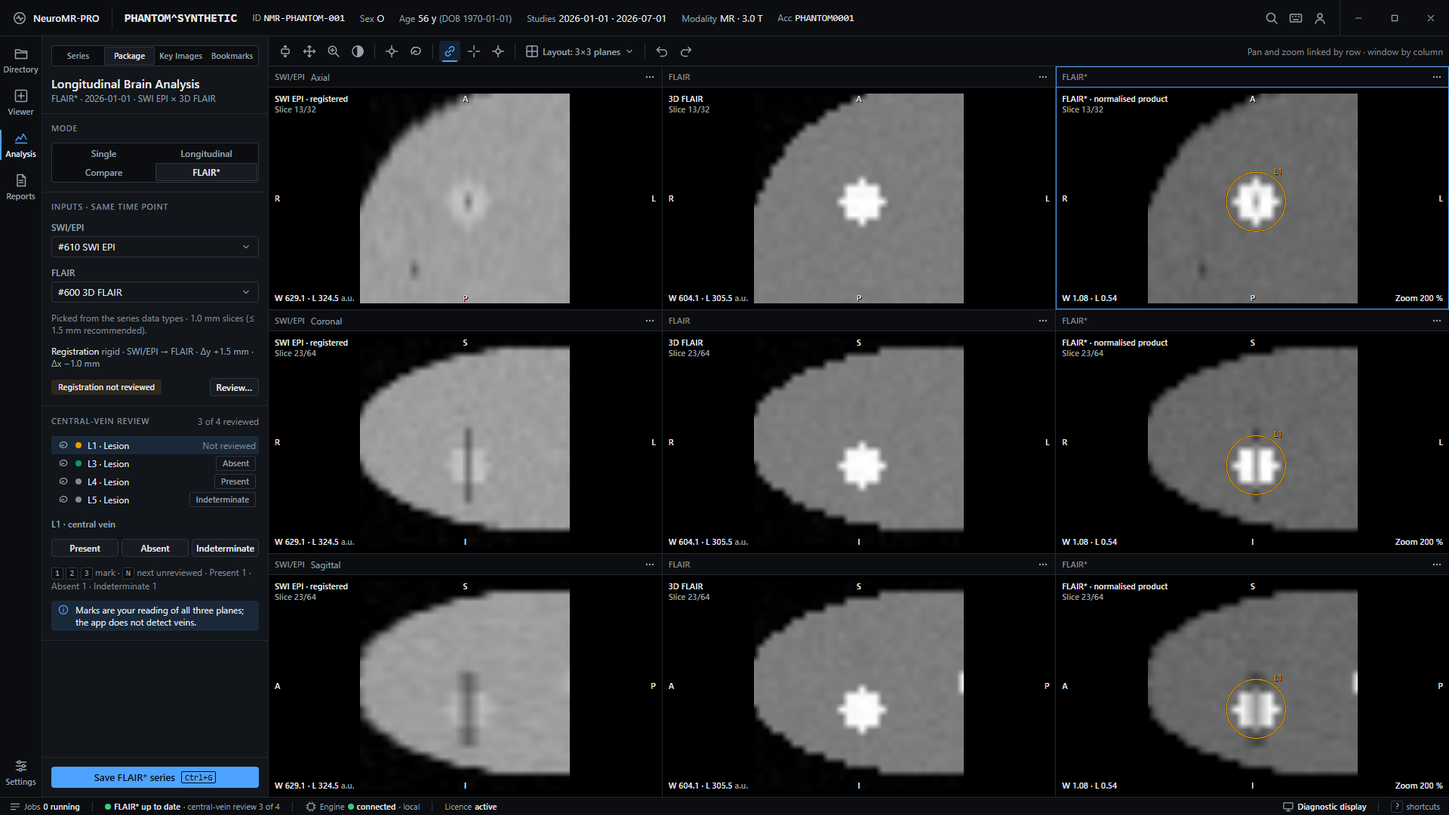
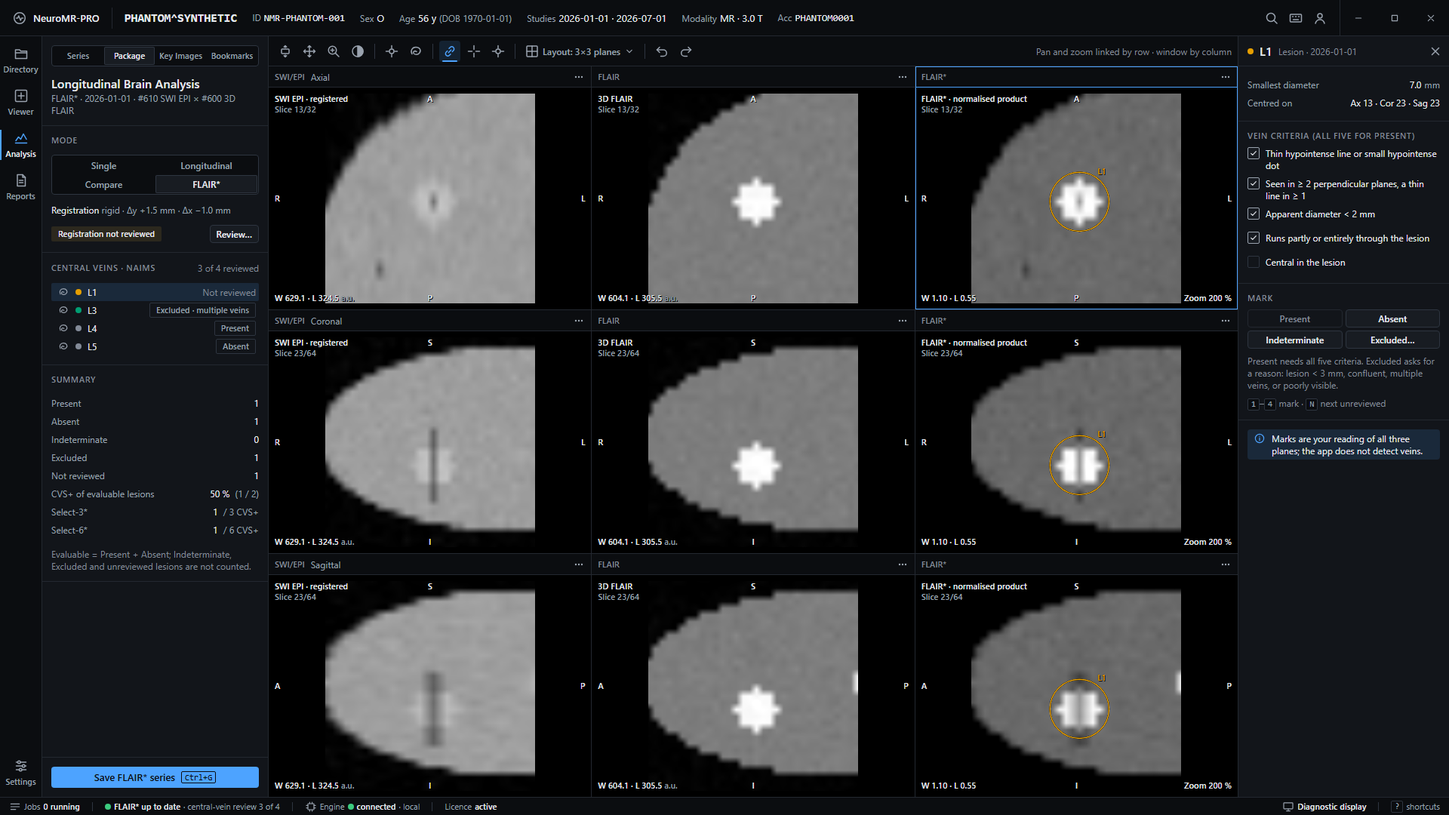
feat(design): NAIMS central-vein review with Excluded mark and CVS summary
- LBA-026 revised to the NAIMS consensus criteria: five vein criteria as a
  checklist (Present only when all are ticked), Absent, Indeterminate, and a
  separate Excluded mark with a required reason (lesion < 3 mm, confluent,
  multiple distinct veins, poorly visible). The app never marks veins.
- LBA-027: summary with counts per mark, CVS+ % of evaluable lesions
  (Present + Absent) and Select-3*/Select-6* counts; no diagnosis stated.
- ALGORITHMS §9 cites Sati et al. 2016 and Daboul et al. 2024.
- 13-flair-star: summary in the task panel, checklist and marks in the
  inspector, L3 shown Excluded (multiple veins); critique, brief and
  traceability updated.

diff --git a/design/screens/13-flair-star.html b/design/screens/13-flair-star.html
@@ -70,11 +70,12 @@
 </svg>
 <!-- /gen:sprite -->
 
-<!-- Longitudinal Brain Analysis, FLAIR* mode (LBA-025) with the central-vein review (LBA-026).
-     Built by design/tools/compose/flair_star.py from 13-longitudinal. SWI/EPI (swi_epi phantom) is registered to
-     the baseline FLAIR (in-plane rigid search, a design preview), both normalised by the 99th percentile in the
-     brain, product shown in three planes around L1 at zoom 200 %. -->
-<div class="app app--no-inspector">
+<!-- Longitudinal Brain Analysis, FLAIR* mode (LBA-025) with the NAIMS central-vein review (LBA-026) and summary
+     (LBA-027). Built by design/tools/compose/flair_star.py from 13-longitudinal. SWI/EPI (swi_epi phantom) is registered
+     to the baseline FLAIR (in-plane rigid search, a design preview), both normalised by the 99th percentile in the
+     brain, product shown in three planes around L1 at zoom 200 %. Marks shown match the phantom truth: L4 central
+     vein, L3 two distinct veins (excluded), L5 no vein; L1 (central vein) is being reviewed. -->
+<div class="app">
   <!-- gen:topbar-2 -->
 <header class="topbar" data-od-id="topbar">
     <div class="brand"><svg class="ic brand__mark"><use href="#i-brand"/></svg>NeuroMR-PRO</div>
@@ -120,7 +121,7 @@
     </div>
     <div class="panel__head">
       <div class="panel__head-row"><h1 class="panel__title">Longitudinal Brain Analysis</h1></div>
-      <p class="dense t2">FLAIR* · 2026-01-01 · SWI EPI × 3D FLAIR</p>
+      <p class="dense t2">FLAIR* · 2026-01-01 · #610 SWI EPI × #600 3D FLAIR</p>
     </div>
     <div class="panel__body">
       <section class="psec">
@@ -133,31 +134,31 @@
           <button class="seg__item is-selected" role="radio" aria-checked="true">FLAIR*</button>
         </div>
 <!-- /modes -->
-      </section>
-      <section class="psec" data-od-id="fstar-inputs">
-        <span class="eyebrow">Inputs · same time point</span>
-        <label class="field"><span class="field__label">SWI/EPI</span><div class="select"><span class="input__value">#610 SWI EPI</span><svg class="ic"><use href="#i-chev-down"/></svg></div></label>
-        <label class="field"><span class="field__label">FLAIR</span><div class="select"><span class="input__value">#600 3D FLAIR</span><svg class="ic"><use href="#i-chev-down"/></svg></div></label>
-        <span class="field__hint">Picked from the series data types · 1.0 mm slices (≤ 1.5 mm recommended).</span>
-        <div class="psec__row"><span class="dense">Registration <span class="t2">rigid · SWI/EPI → FLAIR · Δy +1.5 mm · Δx −1.0 mm</span></span></div>
+        <span class="dense">Registration <span class="t2">rigid · Δy +1.5 mm · Δx −1.0 mm</span></span>
         <div class="psec__row"><span class="chip chip--warning">Registration not reviewed</span><span class="spacer"></span><button class="btn btn--secondary btn--dense">Review…</button></div>
       </section>
       <section class="psec" data-od-id="cvs-review">
-        <div class="psec__row"><span class="eyebrow">Central-vein review</span><span class="spacer"></span><span class="dense t3">3 of 4 reviewed</span></div>
+        <div class="psec__row"><span class="eyebrow">Central veins · NAIMS</span><span class="spacer"></span><span class="dense t3">3 of 4 reviewed</span></div>
         <div class="tree" role="listbox" aria-label="Findings at 2026-01-01">
-          <div class="tree__row is-selected" role="option" aria-selected="true"><svg class="ic"><use href="#i-freehand"/></svg><span class="tree__dot" style="--c: var(--nm-roi-1)"></span><span>L1 · Lesion</span><span></span><span class="dense t3">Not reviewed</span></div>
-          <div class="tree__row" role="option"><svg class="ic"><use href="#i-freehand"/></svg><span class="tree__dot" style="--c: var(--nm-roi-3)"></span><span>L3 · Lesion</span><span></span><span class="chip">Absent</span></div>
-          <div class="tree__row" role="option"><svg class="ic"><use href="#i-freehand"/></svg><span class="tree__dot" style="--c: var(--nm-color-text-tertiary)"></span><span>L4 · Lesion</span><span></span><span class="chip">Present</span></div>
-          <div class="tree__row" role="option"><svg class="ic"><use href="#i-freehand"/></svg><span class="tree__dot" style="--c: var(--nm-color-text-tertiary)"></span><span>L5 · Lesion</span><span></span><span class="chip">Indeterminate</span></div>
+          <div class="tree__row is-selected" role="option" aria-selected="true"><svg class="ic"><use href="#i-freehand"/></svg><span class="tree__dot" style="--c: var(--nm-roi-1)"></span><span>L1</span><span></span><span class="dense t3">Not reviewed</span></div>
+          <div class="tree__row" role="option"><svg class="ic"><use href="#i-freehand"/></svg><span class="tree__dot" style="--c: var(--nm-roi-3)"></span><span>L3</span><span></span><span class="chip">Excluded · multiple veins</span></div>
+          <div class="tree__row" role="option"><svg class="ic"><use href="#i-freehand"/></svg><span class="tree__dot" style="--c: var(--nm-color-text-tertiary)"></span><span>L4</span><span></span><span class="chip">Present</span></div>
+          <div class="tree__row" role="option"><svg class="ic"><use href="#i-freehand"/></svg><span class="tree__dot" style="--c: var(--nm-color-text-tertiary)"></span><span>L5</span><span></span><span class="chip">Absent</span></div>
         </div>
-        <span class="field__label">L1 · central vein</span>
-        <div class="cvs" role="radiogroup" aria-label="Central vein for L1">
-          <button class="btn btn--secondary btn--dense" role="radio" aria-checked="false" title="Present (1)">Present</button>
-          <button class="btn btn--secondary btn--dense" role="radio" aria-checked="false" title="Absent (2)">Absent</button>
-          <button class="btn btn--secondary btn--dense" role="radio" aria-checked="false" title="Indeterminate (3)">Indeterminate</button>
-        </div>
-        <span class="field__hint"><span class="kbd">1</span> <span class="kbd">2</span> <span class="kbd">3</span> mark · <span class="kbd">N</span> next unreviewed · Present 1 · Absent 1 · Indeterminate 1</span>
-        <div class="notice notice--info" role="note" data-od-id="lba-026"><svg class="ic"><use href="#i-info"/></svg><span class="notice__text">Marks are your reading of all three planes; the app does not detect veins.</span></div>
+      </section>
+      <section class="psec" data-od-id="cvs-summary">
+        <span class="eyebrow">Summary</span>
+        <dl>
+          <div class="kv"><dt>Present</dt><dd>1</dd></div>
+          <div class="kv"><dt>Absent</dt><dd>1</dd></div>
+          <div class="kv"><dt>Indeterminate</dt><dd>0</dd></div>
+          <div class="kv"><dt>Excluded</dt><dd>1</dd></div>
+          <div class="kv"><dt>Not reviewed</dt><dd>1</dd></div>
+          <div class="kv"><dt>CVS+ of evaluable lesions</dt><dd>50 % <span class="u">(1 / 2)</span></dd></div>
+          <div class="kv"><dt>Select-3*</dt><dd>1 <span class="u">/ 3 CVS+</span></dd></div>
+          <div class="kv"><dt>Select-6*</dt><dd>1 <span class="u">/ 6 CVS+</span></dd></div>
+        </dl>
+        <span class="field__hint">Evaluable = Present + Absent; Indeterminate, Excluded and unreviewed lesions are not counted.</span>
       </section>
     </div>
     <div class="panel__foot">
@@ -219,7 +220,7 @@
           <span class="ov roi-label roi-label--1" style="left: 60%; top: 41%">L1</span>
         </div>
         <div class="ov ov--tl">FLAIR* · normalised product<br><span class="t2">Slice 13/32</span></div>
-        <div class="ov ov--bl">W 1.08 · L 0.54</div>
+        <div class="ov ov--bl">W 1.10 · L 0.55</div>
         <div class="ov ov--br">Zoom 200 %</div>
         <span class="ov orient orient--n">A</span><span class="ov orient orient--s">P</span><span class="ov orient orient--w">R</span><span class="ov orient orient--e">L</span>
       </div>
@@ -255,7 +256,7 @@
           <span class="ov roi-label roi-label--1" style="left: 60%; top: 50%">L1</span>
         </div>
         <div class="ov ov--tl">FLAIR* · normalised product<br><span class="t2">Slice 23/64</span></div>
-        <div class="ov ov--bl">W 1.08 · L 0.54</div>
+        <div class="ov ov--bl">W 1.10 · L 0.55</div>
         <div class="ov ov--br">Zoom 200 %</div>
         <span class="ov orient orient--n">S</span><span class="ov orient orient--s">I</span><span class="ov orient orient--w">R</span><span class="ov orient orient--e">L</span>
       </div>
@@ -291,7 +292,7 @@
           <span class="ov roi-label roi-label--1" style="left: 60%; top: 50%">L1</span>
         </div>
         <div class="ov ov--tl">FLAIR* · normalised product<br><span class="t2">Slice 23/64</span></div>
-        <div class="ov ov--bl">W 1.08 · L 0.54</div>
+        <div class="ov ov--bl">W 1.10 · L 0.55</div>
         <div class="ov ov--br">Zoom 200 %</div>
         <span class="ov orient orient--n">S</span><span class="ov orient orient--s">I</span><span class="ov orient orient--w">A</span><span class="ov orient orient--e">P</span>
       </div>
@@ -299,6 +300,39 @@
   </main>
 <!-- /main -->
 
+  <aside class="inspector" aria-label="Finding" data-od-id="inspector">
+    <div class="inspector__head"><span class="tree__dot" style="--c: var(--nm-roi-1)"></span><h2 class="panel__title">L1</h2><span class="dense t3">Lesion · 2026-01-01</span><span class="spacer"></span><button class="ibtn" aria-label="Close inspector (I)"><svg class="ic"><use href="#i-close"/></svg></button></div>
+    <div class="panel__body">
+      <section class="section">
+        <dl>
+          <div class="kv"><dt>Smallest diameter</dt><dd>7.0<span class="u">mm</span></dd></div>
+          <div class="kv"><dt>Centred on</dt><dd>Ax 13 · Cor 23 · Sag 23</dd></div>
+        </dl>
+      </section>
+      <section class="section" data-od-id="naims-vein">
+        <span class="eyebrow">Vein criteria (all five for Present)</span>
+          <label class="check check--wrap is-checked"><span class="check__box"><svg class="ic"><use href="#i-check"/></svg></span>Thin hypointense line or small hypointense dot</label>
+          <label class="check check--wrap is-checked"><span class="check__box"><svg class="ic"><use href="#i-check"/></svg></span>Seen in ≥ 2 perpendicular planes, a thin line in ≥ 1</label>
+          <label class="check check--wrap is-checked"><span class="check__box"><svg class="ic"><use href="#i-check"/></svg></span>Apparent diameter &lt; 2 mm</label>
+          <label class="check check--wrap is-checked"><span class="check__box"><svg class="ic"><use href="#i-check"/></svg></span>Runs partly or entirely through the lesion</label>
+          <label class="check check--wrap"><span class="check__box"><svg class="ic"><use href="#i-check"/></svg></span>Central in the lesion</label>
+      </section>
+      <section class="section" data-od-id="cvs-mark">
+        <span class="eyebrow">Mark</span>
+        <div class="cvs cvs--2" role="radiogroup" aria-label="Central-vein mark for L1">
+          <button class="btn btn--secondary btn--dense" role="radio" aria-checked="false" disabled title="Tick all five vein criteria first (1)">Present</button>
+          <button class="btn btn--secondary btn--dense" role="radio" aria-checked="false" title="Absent (2)">Absent</button>
+          <button class="btn btn--secondary btn--dense" role="radio" aria-checked="false" title="Indeterminate (3)">Indeterminate</button>
+          <button class="btn btn--secondary btn--dense" role="radio" aria-checked="false" title="Excluded, choose a reason (4)">Excluded…</button>
+        </div>
+        <span class="field__hint">Present needs all five criteria. Excluded asks for a reason: lesion &lt; 3 mm, confluent, multiple veins, or poorly visible.</span>
+        <span class="field__hint"><span class="kbd">1</span>–<span class="kbd">4</span> mark · <span class="kbd">N</span> next unreviewed</span>
+      </section>
+      <section class="section" style="border-bottom: 0">
+        <div class="notice notice--info" role="note" data-od-id="lba-026"><svg class="ic"><use href="#i-info"/></svg><span class="notice__text">Marks are your reading of all three planes; the app does not detect veins.</span></div>
+      </section>
+    </div>
+  </aside>
 
 
   <!-- gen:statusbar-fstar -->

diff --git a/design/screens/shell.css b/design/screens/shell.css
@@ -1250,3 +1250,6 @@ ul, ol { list-style: none; }
    -------------------------------------------------------------------------- */
 .vgrid--3x3 { grid-template-columns: repeat(3, minmax(0, 1fr)); grid-template-rows: repeat(3, minmax(0, 1fr)); }
 .cvs { display: grid; grid-template-columns: repeat(3, minmax(0, 1fr)); gap: var(--nm-space-1); }
+.check--wrap { white-space: normal; align-items: flex-start; font-size: var(--nm-font-size-dense); line-height: var(--nm-line-height-dense); }
+.check--wrap .check__box { flex: none; margin-top: var(--nm-space-0); }
+.cvs--2 { grid-template-columns: repeat(2, minmax(0, 1fr)); }

diff --git a/design/tools/compose/flair_star.py b/design/tools/compose/flair_star.py
@@ -27,26 +27,29 @@ def mm(v: float) -> str:
 
 s = (S / "13-longitudinal.html").read_text(encoding="utf-8")
 s = s.replace("<title>NeuroMR-PRO · Longitudinal Brain Analysis</title>", "<title>NeuroMR-PRO · Longitudinal Brain Analysis · FLAIR*</title>")
-s = sub(s, r"<!-- Longitudinal Brain Analysis \(LBA-001…043\).*?-->", """<!-- Longitudinal Brain Analysis, FLAIR* mode (LBA-025) with the central-vein review (LBA-026).
-     Built by design/tools/compose/flair_star.py from 13-longitudinal. SWI/EPI (swi_epi phantom) is registered to
-     the baseline FLAIR (in-plane rigid search, a design preview), both normalised by the 99th percentile in the
-     brain, product shown in three planes around L1 at zoom 200 %. -->""")
-s = s.replace('<div class="app">', '<div class="app app--no-inspector">', 1)
+s = sub(s, r"<!-- Longitudinal Brain Analysis \(LBA-001…043\).*?-->", """<!-- Longitudinal Brain Analysis, FLAIR* mode (LBA-025) with the NAIMS central-vein review (LBA-026) and summary
+     (LBA-027). Built by design/tools/compose/flair_star.py from 13-longitudinal. SWI/EPI (swi_epi phantom) is registered
+     to the baseline FLAIR (in-plane rigid search, a design preview), both normalised by the 99th percentile in the
+     brain, product shown in three planes around L1 at zoom 200 %. Marks shown match the phantom truth: L4 central
+     vein, L3 two distinct veins (excluded), L5 no vein; L1 (central vein) is being reviewed. -->""")
 
 finding = lambda name, dot, mark, sel=False: (  # noqa: E731
     f'          <div class="tree__row{" is-selected" if sel else ""}" role="option"{" aria-selected=\"true\"" if sel else ""}>'
     f'<svg class="ic"><use href="#i-freehand"/></svg><span class="tree__dot" style="--c: {dot}"></span>'
-    f'<span>{name} · Lesion</span><span></span>{mark}</div>\n'
+    f'<span>{name}</span><span></span>{mark}</div>\n'
 )
-not_reviewed = '<span class="dense t3">Not reviewed</span>'
 rows = (
-    finding("L1", "var(--nm-roi-1)", not_reviewed, True)
-    + finding("L3", "var(--nm-roi-3)", '<span class="chip">Absent</span>')
+    finding("L1", "var(--nm-roi-1)", '<span class="dense t3">Not reviewed</span>', True)
+    + finding("L3", "var(--nm-roi-3)", '<span class="chip">Excluded · multiple veins</span>')
     + finding("L4", "var(--nm-color-text-tertiary)", '<span class="chip">Present</span>')
-    + finding("L5", "var(--nm-color-text-tertiary)", '<span class="chip">Indeterminate</span>')
+    + finding("L5", "var(--nm-color-text-tertiary)", '<span class="chip">Absent</span>')
 )
+MARKS = {"Present": 1, "Absent": 1, "Indeterminate": 0, "Excluded": 1, "Not reviewed": 1}
+pos, neg = MARKS["Present"], MARKS["Absent"]
+pct = f"{100 * pos / (pos + neg):.0f} %" if pos + neg else "—"
+summary = "".join(f'          <div class="kv"><dt>{k}</dt><dd>{v}</dd></div>\n' for k, v in MARKS.items())
 
-s = sub(s, r'  <aside class="panel" aria-label="Longitudinal analysis".*?\n  </aside>\n', f'''  <aside class="panel" aria-label="Longitudinal analysis" data-od-id="task-panel">
+s = sub(s, r'  <aside class="panel" aria-label="Longitudinal analysis".*?\n  </aside>\n', f"""  <aside class="panel" aria-label="Longitudinal analysis" data-od-id="task-panel">
     <div class="panel__switch">
       <div class="seg" role="tablist" aria-label="Left panel">
         <button class="seg__item" role="tab">Series</button>
@@ -57,7 +60,7 @@ s = sub(s, r'  <aside class="panel" aria-label="Longitudinal analysis".*?\n  </a
     </div>
     <div class="panel__head">
       <div class="panel__head-row"><h1 class="panel__title">Longitudinal Brain Analysis</h1></div>
-      <p class="dense t2">FLAIR* · 2026-01-01 · SWI EPI × 3D FLAIR</p>
+      <p class="dense t2">FLAIR* · 2026-01-01 · #610 SWI EPI × #600 3D FLAIR</p>
     </div>
     <div class="panel__body">
       <section class="psec">
@@ -70,34 +73,29 @@ s = sub(s, r'  <aside class="panel" aria-label="Longitudinal analysis".*?\n  </a
           <button class="seg__item is-selected" role="radio" aria-checked="true">FLAIR*</button>
         </div>
 <!-- /modes -->
-      </section>
-      <section class="psec" data-od-id="fstar-inputs">
-        <span class="eyebrow">Inputs · same time point</span>
-        <label class="field"><span class="field__label">SWI/EPI</span><div class="select"><span class="input__value">#610 SWI EPI</span><svg class="ic"><use href="#i-chev-down"/></svg></div></label>
-        <label class="field"><span class="field__label">FLAIR</span><div class="select"><span class="input__value">#600 3D FLAIR</span><svg class="ic"><use href="#i-chev-down"/></svg></div></label>
-        <span class="field__hint">Picked from the series data types · 1.0 mm slices (≤ 1.5 mm recommended).</span>
-        <div class="psec__row"><span class="dense">Registration <span class="t2">rigid · SWI/EPI → FLAIR · Δy {mm(dy)} mm · Δx {mm(dx)} mm</span></span></div>
+        <span class="dense">Registration <span class="t2">rigid · Δy {mm(dy)} mm · Δx {mm(dx)} mm</span></span>
         <div class="psec__row"><span class="chip chip--warning">Registration not reviewed</span><span class="spacer"></span><button class="btn btn--secondary btn--dense">Review…</button></div>
       </section>
       <section class="psec" data-od-id="cvs-review">
-        <div class="psec__row"><span class="eyebrow">Central-vein review</span><span class="spacer"></span><span class="dense t3">3 of 4 reviewed</span></div>
+        <div class="psec__row"><span class="eyebrow">Central veins · NAIMS</span><span class="spacer"></span><span class="dense t3">3 of 4 reviewed</span></div>
         <div class="tree" role="listbox" aria-label="Findings at 2026-01-01">
 {rows}        </div>
-        <span class="field__label">L1 · central vein</span>
-        <div class="cvs" role="radiogroup" aria-label="Central vein for L1">
-          <button class="btn btn--secondary btn--dense" role="radio" aria-checked="false" title="Present (1)">Present</button>
-          <button class="btn btn--secondary btn--dense" role="radio" aria-checked="false" title="Absent (2)">Absent</button>
-          <button class="btn btn--secondary btn--dense" role="radio" aria-checked="false" title="Indeterminate (3)">Indeterminate</button>
-        </div>
-        <span class="field__hint"><span class="kbd">1</span> <span class="kbd">2</span> <span class="kbd">3</span> mark · <span class="kbd">N</span> next unreviewed · Present 1 · Absent 1 · Indeterminate 1</span>
-        <div class="notice notice--info" role="note" data-od-id="lba-026"><svg class="ic"><use href="#i-info"/></svg><span class="notice__text">Marks are your reading of all three planes; the app does not detect veins.</span></div>
+      </section>
+      <section class="psec" data-od-id="cvs-summary">
+        <span class="eyebrow">Summary</span>
+        <dl>
+{summary}          <div class="kv"><dt>CVS+ of evaluable lesions</dt><dd>{pct} <span class="u">({pos} / {pos + neg})</span></dd></div>
+          <div class="kv"><dt>Select-3*</dt><dd>{pos} <span class="u">/ 3 CVS+</span></dd></div>
+          <div class="kv"><dt>Select-6*</dt><dd>{pos} <span class="u">/ 6 CVS+</span></dd></div>
+        </dl>
+        <span class="field__hint">Evaluable = Present + Absent; Indeterminate, Excluded and unreviewed lesions are not counted.</span>
       </section>
     </div>
     <div class="panel__foot">
       <button class="btn btn--primary btn--block">Save FLAIR* series <span class="kbd">Ctrl+G</span></button>
     </div>
   </aside>
-''')
+""")
 
 s = sub(s, r'    <button class="picker"><svg class="ic"><use href="#i-layout"/></svg>Preset: FLAIR follow-up.*?</button>',
         '    <button class="picker"><svg class="ic"><use href="#i-layout"/></svg>Layout: 3×3 planes<svg class="ic ic--sm"><use href="#i-chev-down"/></svg></button>')
@@ -140,7 +138,41 @@ for pk, pname, pslice, (on, os_, ow, oe) in PLANES:
       </div>
     </section>''')
 s = sub(s, r"<!-- main -->.*?<!-- /main -->", "<!-- main -->\n  <main class=\"vgrid vgrid--3x3\" aria-label=\"Viewports\" data-od-id=\"viewport-grid\">\n" + "\n".join(tiles).replace("\n        \n", "\n") + "\n  </main>\n<!-- /main -->")
-s = sub(s, r'\n  <aside class="inspector" aria-label="Finding".*?</aside>\n', "\n")
+s = sub(s, r'\n  <aside class="inspector" aria-label="Finding".*?</aside>\n', f"""
+  <aside class="inspector" aria-label="Finding" data-od-id="inspector">
+    <div class="inspector__head"><span class="tree__dot" style="--c: var(--nm-roi-1)"></span><h2 class="panel__title">L1</h2><span class="dense t3">Lesion · 2026-01-01</span><span class="spacer"></span><button class="ibtn" aria-label="Close inspector (I)"><svg class="ic"><use href="#i-close"/></svg></button></div>
+    <div class="panel__body">
+      <section class="section">
+        <dl>
+          <div class="kv"><dt>Smallest diameter</dt><dd>{fs["min_diameter_mm"]:.1f}<span class="u">mm</span></dd></div>
+          <div class="kv"><dt>Centred on</dt><dd>Ax {sl["ax"]} · Cor {sl["cor"]} · Sag {sl["sag"]}</dd></div>
+        </dl>
+      </section>
+      <section class="section" data-od-id="naims-vein">
+        <span class="eyebrow">Vein criteria (all five for Present)</span>
+          <label class="check check--wrap is-checked"><span class="check__box"><svg class="ic"><use href="#i-check"/></svg></span>Thin hypointense line or small hypointense dot</label>
+          <label class="check check--wrap is-checked"><span class="check__box"><svg class="ic"><use href="#i-check"/></svg></span>Seen in ≥ 2 perpendicular planes, a thin line in ≥ 1</label>
+          <label class="check check--wrap is-checked"><span class="check__box"><svg class="ic"><use href="#i-check"/></svg></span>Apparent diameter &lt; 2 mm</label>
+          <label class="check check--wrap is-checked"><span class="check__box"><svg class="ic"><use href="#i-check"/></svg></span>Runs partly or entirely through the lesion</label>
+          <label class="check check--wrap"><span class="check__box"><svg class="ic"><use href="#i-check"/></svg></span>Central in the lesion</label>
+      </section>
+      <section class="section" data-od-id="cvs-mark">
+        <span class="eyebrow">Mark</span>
+        <div class="cvs cvs--2" role="radiogroup" aria-label="Central-vein mark for L1">
+          <button class="btn btn--secondary btn--dense" role="radio" aria-checked="false" disabled title="Tick all five vein criteria first (1)">Present</button>
+          <button class="btn btn--secondary btn--dense" role="radio" aria-checked="false" title="Absent (2)">Absent</button>
+          <button class="btn btn--secondary btn--dense" role="radio" aria-checked="false" title="Indeterminate (3)">Indeterminate</button>
+          <button class="btn btn--secondary btn--dense" role="radio" aria-checked="false" title="Excluded, choose a reason (4)">Excluded…</button>
+        </div>
+        <span class="field__hint">Present needs all five criteria. Excluded asks for a reason: lesion &lt; 3 mm, confluent, multiple veins, or poorly visible.</span>
+        <span class="field__hint"><span class="kbd">1</span>–<span class="kbd">4</span> mark · <span class="kbd">N</span> next unreviewed</span>
+      </section>
+      <section class="section" style="border-bottom: 0">
+        <div class="notice notice--info" role="note" data-od-id="lba-026"><svg class="ic"><use href="#i-info"/></svg><span class="notice__text">Marks are your reading of all three planes; the app does not detect veins.</span></div>
+      </section>
+    </div>
+  </aside>
+""")
 s = sub(s, r"\n<!-- dialog -->.*?<!-- /dialog -->\n", "\n")
 s = s.replace("<!-- gen:statusbar-lba -->", "<!-- gen:statusbar-fstar -->").replace("<!-- /gen:statusbar-lba -->", "<!-- /gen:statusbar-fstar -->")
 (S / "13-flair-star.html").write_text(s, encoding="utf-8", newline="\n")

diff --git a/design/tools/render_phantom_imagery.py b/design/tools/render_phantom_imagery.py
@@ -698,9 +698,15 @@ def flair_star(ph: Path, img: Path, data: dict) -> None:
             save_gray(img / f"fstar_{name}_{k}.png", pl[k], lo, hi)
         windows[name] = [r(lo, 2), r(hi, 2)]
     save_gray(img / "swi_epi.png", swi[data["flair"]["slice"] - 1])  # Directory thumbnail
+    # smallest diameter of L1 from its FLAIR segmentation (threshold 1.5 × median tissue), for LBA-026
+    seg, _ = ndimage.label(fl > 1.5 * np.median(fl[fm]))
+    comp = seg == seg[cz, cy, cx]
+    extents = [int(np.ptp(np.nonzero(comp)[ax])) + 1 for ax in range(3)]
+    min_diam_mm = min(extents) * px
     nz = fl.shape[0]
     data["flair_star"] = {
         "lesion": "L1",
+        "min_diameter_mm": r(min_diam_mm, 1),
         "centre_slice": {"ax": cz + 1, "cor": cy + 1, "sag": cx + 1},
         "slices": {"ax": nz, "cor": fl.shape[1], "sag": fl.shape[2]},
         "shift_mm": [r(-dy * px, 1), r(-dx * px, 1)],  # SWI/EPI displacement (y, x) found by the search

diff --git a/design/CRITIQUE.md b/design/CRITIQUE.md
@@ -74,7 +74,7 @@ Notes
 
 ### Revision 2026-11-22 — screens 13 and 15 on the new phantoms
 
-- **13 FLAIR\* (new screen `13-flair-star`, composer `design/tools/compose/flair_star.py`).** LBA-025 3×3 grid: rows axial, coronal and sagittal through L1; columns SWI/EPI, FLAIR, FLAIR\*; pan and zoom linked by row, window by column; zoom 200 %. The SWI/EPI is registered to the baseline FLAIR by an in-plane rigid search (normalised cross-correlation, 0.25 mm steps, a design preview of the engine step). It finds Δy +1.5 mm, Δx −1.0 mm, which is exactly the phantom's built-in displacement. FLAIR\* = product of both after 99th-percentile normalisation in the brain (ALGORITHMS §9). The central vein of L1 shows as a dot in the axial view and a dark line through the lesion in the coronal and sagittal views. The vein outside every lesion (lower left in the axial view) shows that a vein alone is not a finding. The central-vein review (LBA-026, new) lists the four baseline findings: L3 absent, L4 present and L5 indeterminate are already marked, and L1 is selected and not yet reviewed. L1 and L4 are the phantom's central-vein lesions, so the shown marks agree with the truth. Marks are keyboard driven (1, 2, 3, N). The one-line notice says that the marks are the user's reading, and "Registration not reviewed" stays until the user opens Review (SAFE-070). Law 5 does not apply (FLAIR\* computes in well under a second). Laws 2 and 3 are adapted, as in the other Longitudinal modes.
+- **13 FLAIR\* (new screen `13-flair-star`, composer `design/tools/compose/flair_star.py`).** LBA-025 3×3 grid: rows axial, coronal and sagittal through L1; columns SWI/EPI, FLAIR, FLAIR\*; pan and zoom linked by row, window by column; zoom 200 %. The SWI/EPI is registered to the baseline FLAIR by an in-plane rigid search (normalised cross-correlation, 0.25 mm steps, a design preview of the engine step). It finds Δy +1.5 mm, Δx −1.0 mm, which is exactly the phantom's built-in displacement. FLAIR\* = product of both after 99th-percentile normalisation in the brain (ALGORITHMS §9). The central vein of L1 shows as a dot in the axial view and a dark line through the lesion in the coronal and sagittal views. The vein outside every lesion (lower left in the axial view) shows that a vein alone is not a finding. The central-vein review follows the NAIMS consensus (LBA-026, revised 2026-11-22). The task panel lists the four baseline findings with their marks: L3 **Excluded · multiple veins**, L4 Present, L5 Absent, and L1 selected, not yet reviewed. The marks agree with the phantom: L3 has two distinct veins, L4 a central vein and L5 none. Below the list is the LBA-027 summary: counts per mark, CVS+ 50 % of evaluable lesions (1 / 2, with Indeterminate, Excluded and unreviewed lesions outside the denominator), and Select-3\* 1 / 3 and Select-6\* 1 / 6. It states counts only, no diagnosis. The inspector holds the selected finding: smallest diameter 7.0 mm (from its segmentation, which matters for the < 3 mm exclusion), the five NAIMS vein criteria as a checklist (four ticked, "central" still open, so Present is disabled), and the Present, Absent, Indeterminate and Excluded… marks; Excluded asks for one of the four NAIMS reasons. Keys 1–4 mark, and N moves to the next unreviewed finding. The notice still says that the marks are the user's reading and the app does not detect veins. "Registration not reviewed" stays until the user opens Review (SAFE-070). Law 5 does not apply (FLAIR\* computes in well under a second). Laws 2 and 3 are adapted, as in the other Longitudinal modes.
 - **13 Longitudinal and Compare.** The FLAIR\* mode button is enabled; the hint now names the SWI EPI series that makes it available.
 - **01 Directory (and 18 importing, 22 audit).** The study now lists SWI EPI (#610) and Multi-echo GRE (#620), matching screen 13. Totals are 17 series and 2 009 images; the import progress (412 / 2 009, 21 %) and the audit entry follow.
 - **15 Echo Accumulation.** Source and result come from `multi_echo_gre` (TE 5/10/15/20 ms, T2\* 60 ms tissue and 30 ms lesions, SNR 100) at slice 16. L3 is darker because its T2\* is shorter; the small dot above it is the lower tip of L1. Contrast is low at TE 5 ms and rises in the sum, as the model predicts.

diff --git a/docs/spec/FUNCTIONAL_SPEC.md b/docs/spec/FUNCTIONAL_SPEC.md
@@ -385,7 +385,14 @@ Used by Mismatch, Tractography (anatomical underlay and fMRI overlay), Brain Fun
 - **LBA-023** Change-map subtraction fusion: bias-field correction → registration → intensity normalisation → subtraction; displayed on the baseline underlay; default threshold 10 % of the maximum difference range after removing 2 % outliers; opacity rises with |difference|. Deterministic for identical inputs.
 - **LBA-024** A traffic-light indicator (amber/red) warns when compared series differ in resolution, orientation or contrast; clicking shows the reason. Notice: the change map highlights intensity differences only, cannot separate change from artifact or positioning, and is not a sole basis for diagnosis; requires ≥ 1 mm resolution for 1 mm sensitivity.
 - **LBA-025** FLAIR* mode: user labels one series SWI/EPI and one FLAIR (or via data types); registration within the same time point; voxelwise product after normalisation; result shown beside both inputs in three planes or a 3×3 grid (pan/zoom linked by row, windowing by column). Recommended ≤ 1.5 mm slices. Save as new series.
-- **LBA-026** Central-vein review (FLAIR* mode): the findings of the FLAIR* time point are listed, and selecting one centres all nine views on it. The user marks each finding Central vein present, absent or indeterminate (keys 1, 2, 3; N moves to the next unreviewed finding). The app never detects or marks veins itself. The panel shows the count of reviewed findings and of each mark. Marks are stored with the finding (LBA-037) and appear in the table export and the report. A one-line notice states that the marks are the user's reading. The SWI/EPI → FLAIR registration shows "Registration not reviewed" until the user reviews it (SAFE-070).
+- **LBA-026** Central-vein review (FLAIR* mode) follows the NAIMS consensus criteria (`ALGORITHMS.md` §9). The findings of the FLAIR* time point are listed; selecting one centres all nine views on it and shows its smallest diameter measured from its segmentation. The user gives each finding one mark:
+  - **Present (CVS+)**: the user ticks a checklist of the five NAIMS vein criteria: (1) thin hypointense line or small hypointense dot; (2) visible in at least two perpendicular planes and as a thin line in at least one; (3) apparent diameter < 2 mm; (4) runs partly or entirely through the lesion; (5) central position in the lesion. Present is available only when all five are ticked.
+  - **Absent (CVS−)**: no vein can be identified in the lesion.
+  - **Indeterminate**: a vein-like structure that cannot be confirmed or ruled out, for example seen in one plane only or unclear.
+  - **Excluded**, with one required reason from the NAIMS lesion exclusion criteria: lesion < 3 mm in diameter in any plane; confluent with another lesion; multiple distinct veins; lesion poorly visible (motion or other artifact). Excluded is a separate mark from Absent.
+
+  Keys: 1 Present, 2 Absent, 3 Indeterminate, 4 Excluded (opens the reason list), N next unreviewed finding. The app never detects or marks veins itself; a one-line notice states that the marks are the user's reading and that the app does not detect veins. The SWI/EPI → FLAIR registration shows "Registration not reviewed" until the user reviews it (SAFE-070).
+- **LBA-027** Central-vein summary for the time point: the count of each mark and of unreviewed findings; CVS+ percentage of evaluable lesions = CVS+ / (CVS+ + CVS−), with Indeterminate, Excluded and unreviewed findings outside the denominator ("—" when no lesion is evaluable); Select-3* and Select-6* shown as the CVS+ count against 3 and 6. The summary reports counts and percentages only and states no diagnosis. Marks, exclusion reasons and the summary are stored with the findings (LBA-037) and appear in the table export and the report.
 
 ### 12.4 Segmentation and findings
 

diff --git a/docs/spec/ALGORITHMS.md b/docs/spec/ALGORITHMS.md
@@ -197,7 +197,8 @@ References: Provencher, Magn Reson Med 1993;30:672–679 (LCModel principle). Ne
 
 - Inter-study registration: rigid then optional affine, Mattes MI, multi-resolution (SimpleITK), brain-masked.
 - Change map: N4 bias-field correction (Tustison 2010) on both volumes → registration → histogram matching of follow-up to baseline within the brain mask → difference D = follow-up − baseline → robust range from 2nd–98th percentile of |D| → display threshold = 10 % of that range; overlay alpha = clip((|D| − thr)/(range − thr), 0, 1).
-- FLAIR*: register SWI/EPI to FLAIR (rigid, same session), normalise each to [0, 1] by the 99th percentile within brain, product voxelwise (Sati et al., Radiology 2012;265:926–932). Phantom: `swi_epi` (T2*-weighted EPI on the baseline FLAIR grid and lesions; hypointense central veins in lesions 1 and 3 plus one vein outside any lesion; displaced by a known (0, 1.5, −1) voxel shift).
+- FLAIR*: register SWI/EPI to FLAIR (rigid, same session), normalise each to [0, 1] by the 99th percentile within brain, product voxelwise (Sati et al., Radiology 2012;265:926–932). Phantom: `swi_epi` (T2*-weighted EPI on the baseline FLAIR grid and lesions; hypointense central veins in lesions 1 and 3 (L1, L4) plus one vein outside any lesion; displaced by a known (0, 1.5, −1) voxel shift; lesion 2 (L3) has two distinct veins, a NAIMS exclusion).
+- Central-vein review (LBA-026/027), NAIMS consensus (Sati et al., Nat Rev Neurol 2016;12:714–722). Vein criteria: thin hypointense line or small dot; visible in ≥ 2 perpendicular planes and as a thin line in ≥ 1; apparent diameter < 2 mm; runs partly or entirely through the lesion; central in the lesion. Lesion exclusions: < 3 mm in diameter in any plane; confluent; multiple distinct veins; poorly visible (motion or artifact). Summary: CVS+ % = n(CVS+) / (n(CVS+) + n(CVS−)) — Indeterminate and Excluded are outside the denominator, as in the percentage method of Daboul et al. (Mult Scler 2024, CAVS-MS pilot); Select-3* and Select-6* = n(CVS+) against thresholds 3 and 6 (same study). All marks are made by the user; no algorithm classifies veins.
 - Seed-point segmentation: from the clicked voxel, threshold = intensity midpoint between local lesion core (median in 3×3×3) and surrounding ring (median at the sphere boundary), adjustable by `Shift`+wheel; connected component inside the limiting sphere; hole filling.
 - Volume = voxel count × voxel volume [ml].
 

diff --git a/CLAUDE.md b/CLAUDE.md
@@ -52,7 +52,7 @@ CI: `.github/workflows/ci.yml` (node, engine, traceability with `CURRENT_PHASE`,
 - Batch 5: 13 Longitudinal (Longitudinal and Compare modes; lesions matched from the FLAIR pair), 14 Advanced Diffusion (Analyze signal with real kurtosis + simplified IVIM fit; Computed DWI), 15 Subtraction, 15 Echo Accumulation (design-only multi-echo imagery).
 - Batch 6: 16 Generate Series / Save All Tables, 17 Layout presets, Settings (analysis defaults; displays and calibration check), shortcut sheet, 18 states (Directory empty, importing + PACS error, DSC computing, Mismatch invalid input + failed job). Variant screens are rebuilt by `design/tools/compose/*.py` (see its README). Fixed: Tmax only with Manual AIF (02, 03, 05).
 - Batch 7: 19 sign-in, lock, Neurologist start view; 20 hanging protocols, display test pattern; 21 Licence, System; 22 audit log, Collect diagnostics; 23 PDF report previews (DSC, Mismatch). Print tokens (`--nm-color-print-*`) added to the design system, used only inside report pages. Composer `design/tools/compose/enterprise.py`.
-- Revision 2026-11-22 (Diyar's decisions): English only (GEN-200; RTL screen removed); launcher rules use DIR-003 types (Subtraction rules approved); SWI/EPI and multi-echo phantoms; 13 FLAIR* mode with central-vein review (new `13-flair-star`, LBA-026, composer `compose/flair_star.py`); 13 and 15 imagery from the new phantoms.
+- Revision 2026-11-22 (Diyar's decisions): English only (GEN-200; RTL screen removed); launcher rules use DIR-003 types (Subtraction rules approved); SWI/EPI and multi-echo phantoms; 13 FLAIR* mode with NAIMS central-vein review, Excluded mark with reason, and CVS summary (new `13-flair-star`, LBA-026/027, composer `compose/flair_star.py`); 13 and 15 imagery from the new phantoms; Directory 01 lists #610 and #620.
 - Batch 8: 24 laptop DSC (collapsed and overlay panel) (`design/tools/compose/variants.py`); `design/COMPONENTS.md`. The Arabic RTL Directory was removed on 2026-11-22: the product is English only.
 - Workflow: screens are written in `design/screens/`, mirrored into the Open Design project (`…/open-design/.od/projects/neuromr-pro/screens/`), rendered at 1920×1080 and 2560×1440, self-critiqued against brief §4.6.
 

diff --git a/design/BRIEF.md b/design/BRIEF.md
@@ -110,7 +110,7 @@ Numbering matches `design/screens/<nn>-<name>.{html,png}`. Screens 01–24 are b
 | 12 | Spectroscopy | MRS-001…013 |
 | 13a / 13b | Longitudinal: Longitudinal mode, Compare + change map | LBA-001…042 |
 | 13c | Lesion properties dialog with volume trend | LBA-037, LBA-040 |
-| 13d | FLAIR* mode with central-vein review | LBA-025, LBA-026, SAFE-070 |
+| 13d | FLAIR* mode with NAIMS central-vein review and summary | LBA-025…027, SAFE-070 |
 | 14a / 14b | Advanced Diffusion: cDWI and Analyze signal | ADV-001…011 |
 | 15a / 15b | Subtraction; Echo Accumulation | SUB-001…009, ECHO-001…003 |
 | 16a / 16b | Generate Series dialog; Save All Tables dialog | GEN-160…171 |

diff --git a/docs/dhf/TRACEABILITY.md b/docs/dhf/TRACEABILITY.md
@@ -201,6 +201,7 @@ Generated by `scripts/trace.py`; do not edit by hand.
 | LBA-024 | 9 | — |
 | LBA-025 | 9 | — |
 | LBA-026 | 9 | — |
+| LBA-027 | 9 | — |
 | LBA-030 | 9 | — |
 | LBA-031 | 9 | — |
 | LBA-032 | 9 | — |
@@ -247,4 +248,4 @@ Generated by `scripts/trace.py`; do not edit by hand.
 | SAFE-070 | 2 | — |
 | SAFE-080 | 2 | — |
 
-Coverage: 18 of 242 requirements referenced by at least one test.
+Coverage: 18 of 243 requirements referenced by at least one test.
